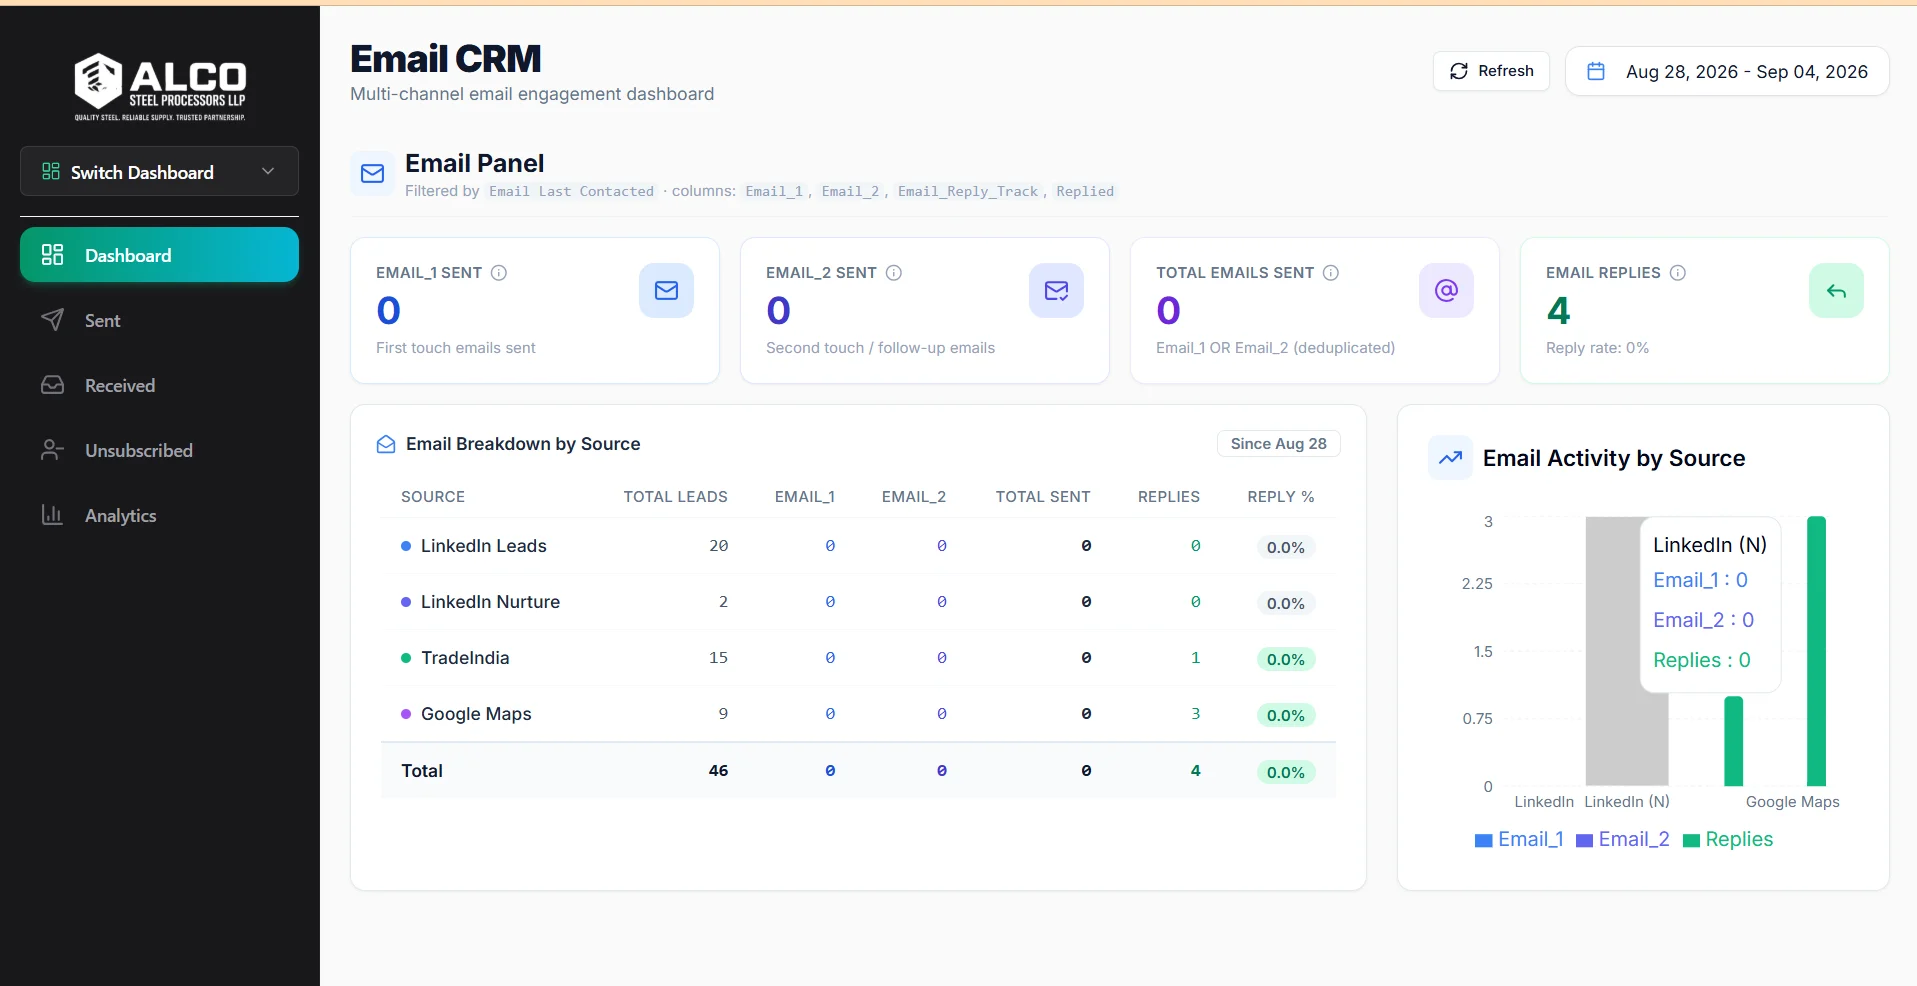
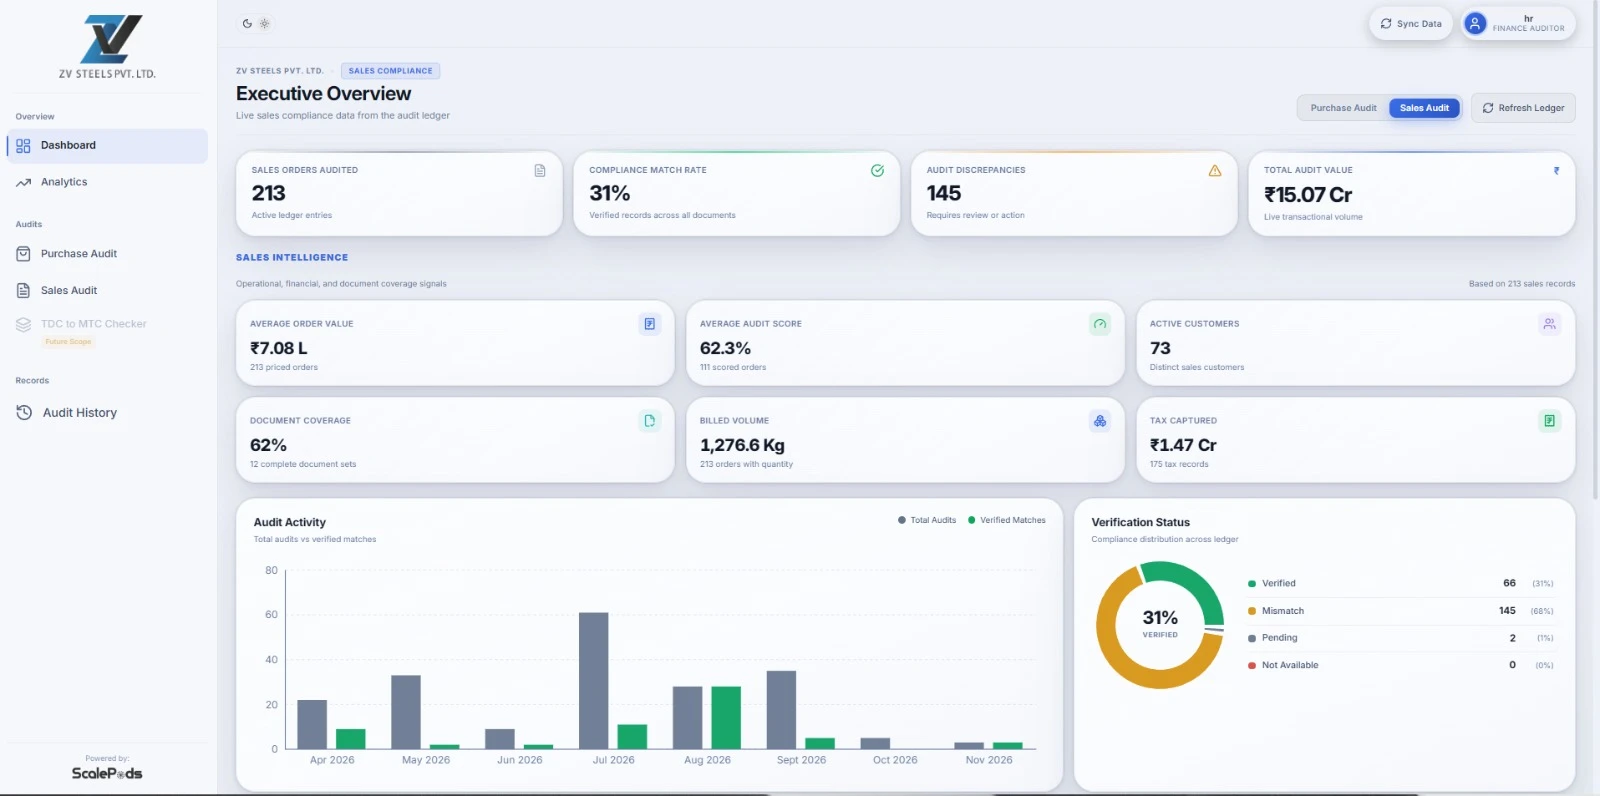
Update System 2 image in ZV Steels case study

diff --git a/src/components/case-studies/ZVSteelsCaseStudy.tsx b/src/components/case-studies/ZVSteelsCaseStudy.tsx
@@ -618,7 +618,7 @@ export default function ZVSteelsCaseStudy({ faqs }: ZVSteelsProps) {
               {/* System 2 Image */}
               <div className="premium-card" style={{ width: "100%", padding: "20px", overflow: "hidden" }}>
                 <img 
-                  src="/images/case-studies/zv-steels/system-2-erp-reconciliation.webp" 
+                  src="/images/case-studies/zv-steels/system-2.jpeg" 
                   alt="Automated Logistics and Invoice Reconciliation Dashboard" 
                   style={{ width: "100%", height: "auto", borderRadius: "12px", display: "block" }} 
                 />
